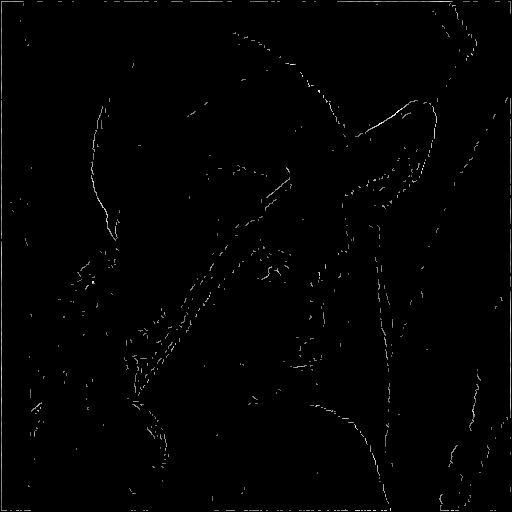
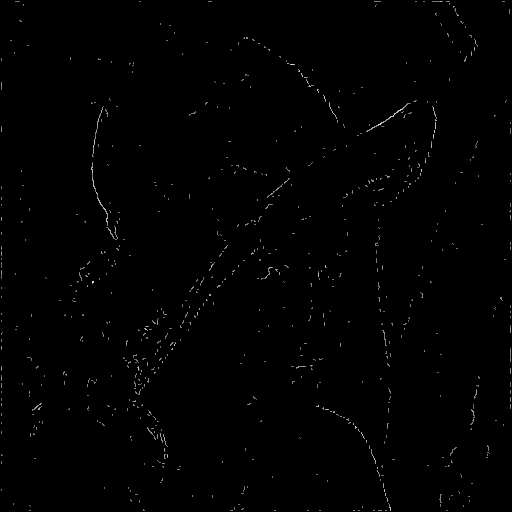
FODDDDDDDDDDDASSSSSSSSSSSSE.

diff --git a/Tutorial 1/main_CannyDetector.m b/Tutorial 1/main_CannyDetector.m
@@ -10,7 +10,7 @@ function [output1,output2,output3] = main_CannyDetector(imageGreyScale)
     end
     
     imageSmoothed = Gaussian_smoothing(imageGreyScale,kernelSize,smoothArg);
-    [M,N] = size(imageSmoothed);
+    [M, N] = size(imageSmoothed);
     
     [Gx,Gy,Gmag,Gdir] = gradient(imageSmoothed);
     
@@ -27,7 +27,7 @@ function [output1,output2,output3] = main_CannyDetector(imageGreyScale)
 
     result = hysteresis_threshold(imageNonMax,T1,T2,M,N);
 
-output1 = imageSmoothed;
+output1 = Gmag;
 output2 = imageNonMax;
 output3 = result;
 end
